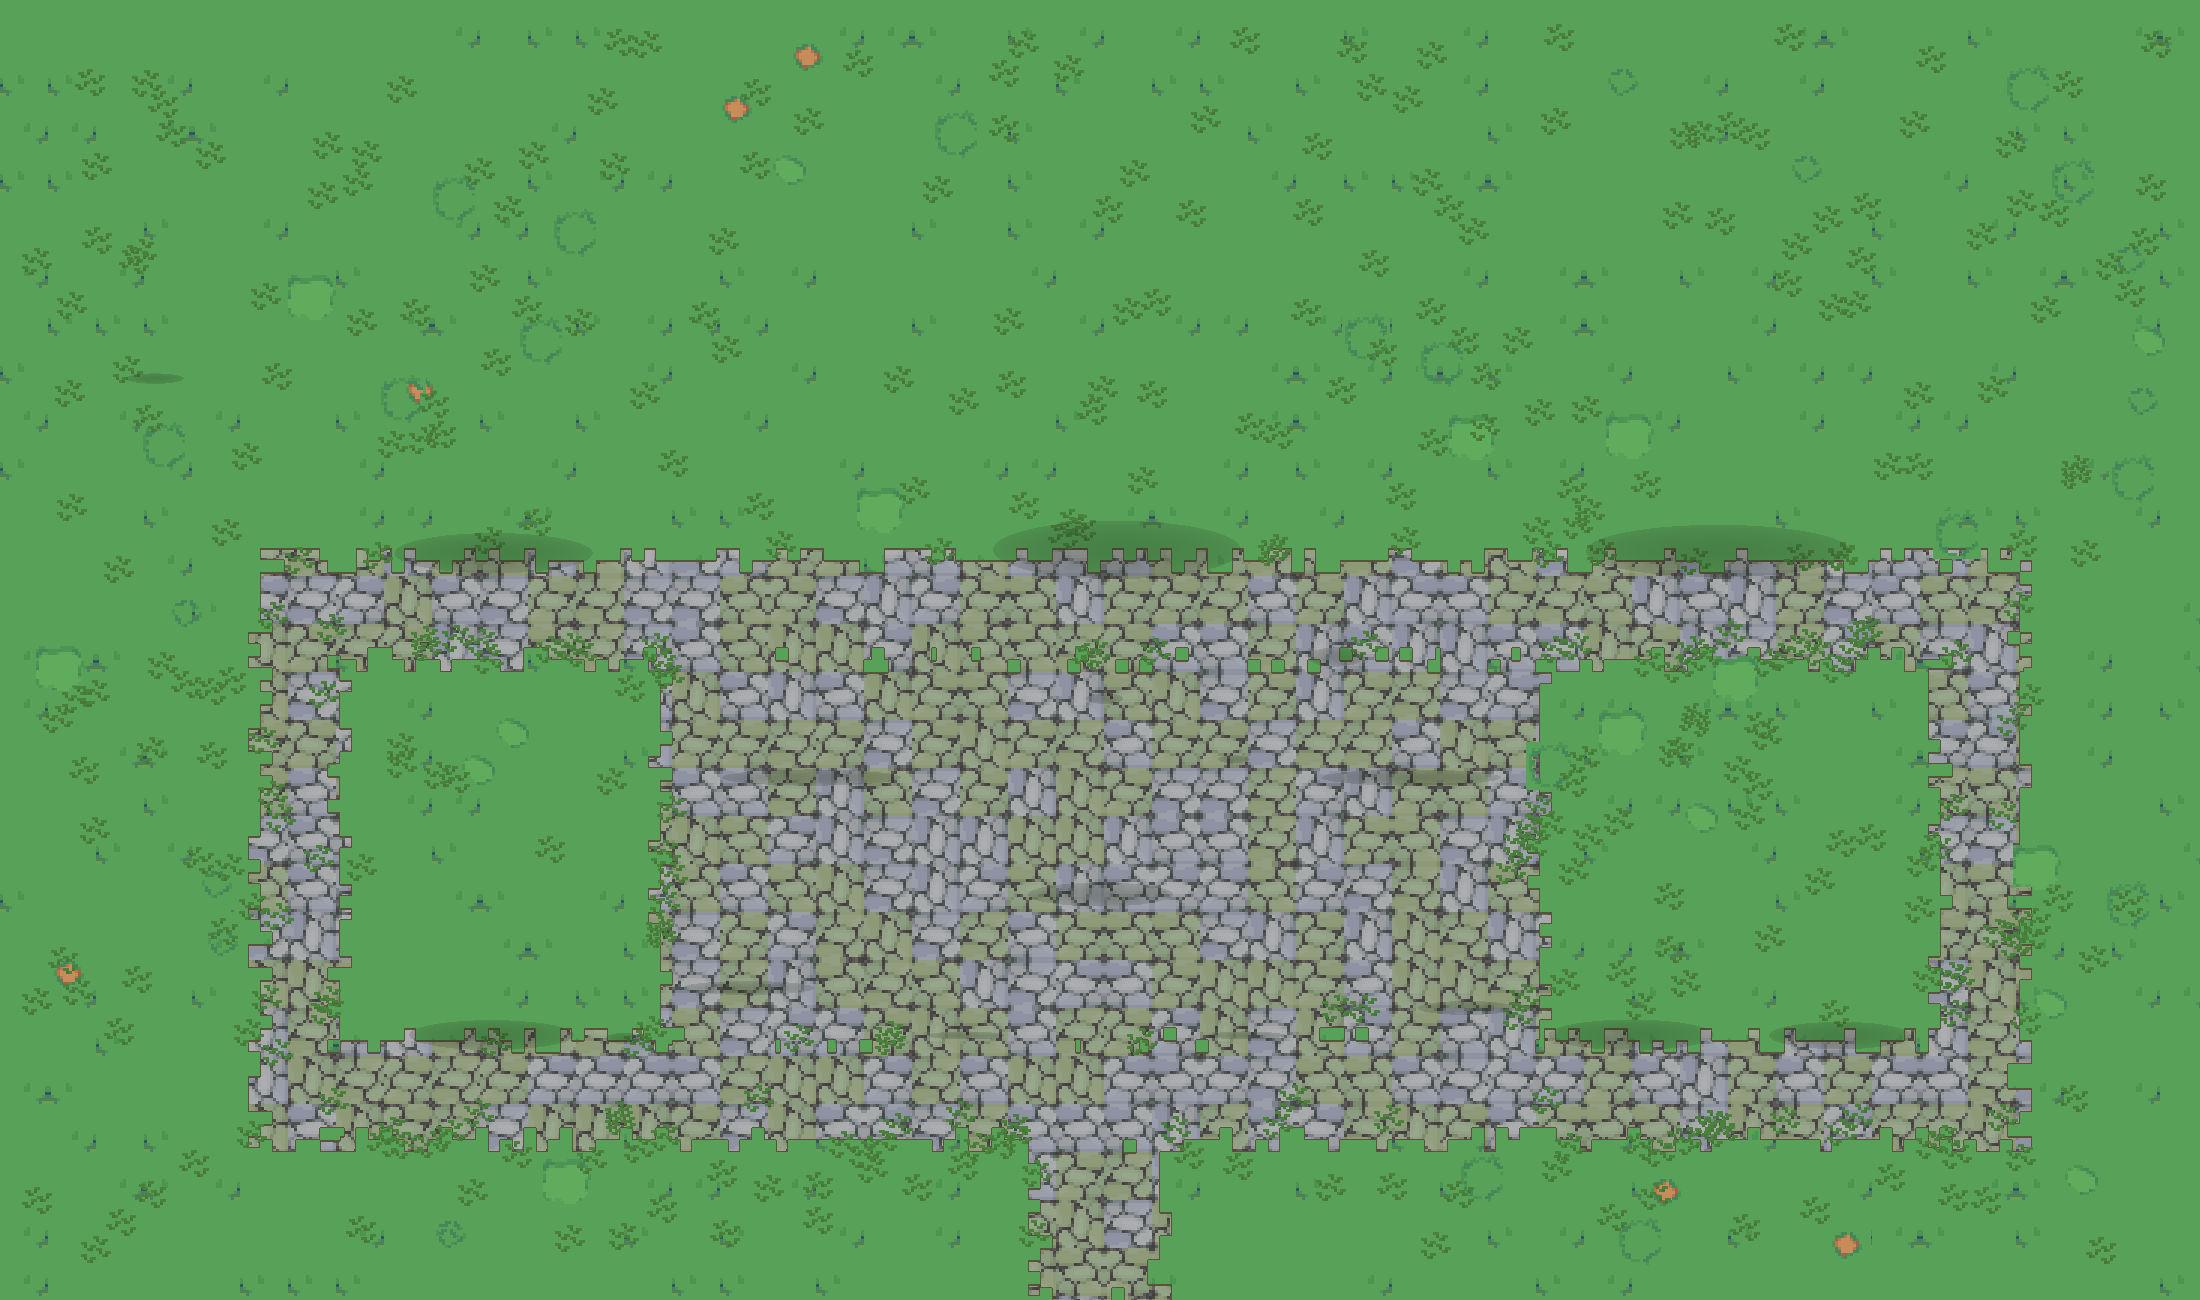
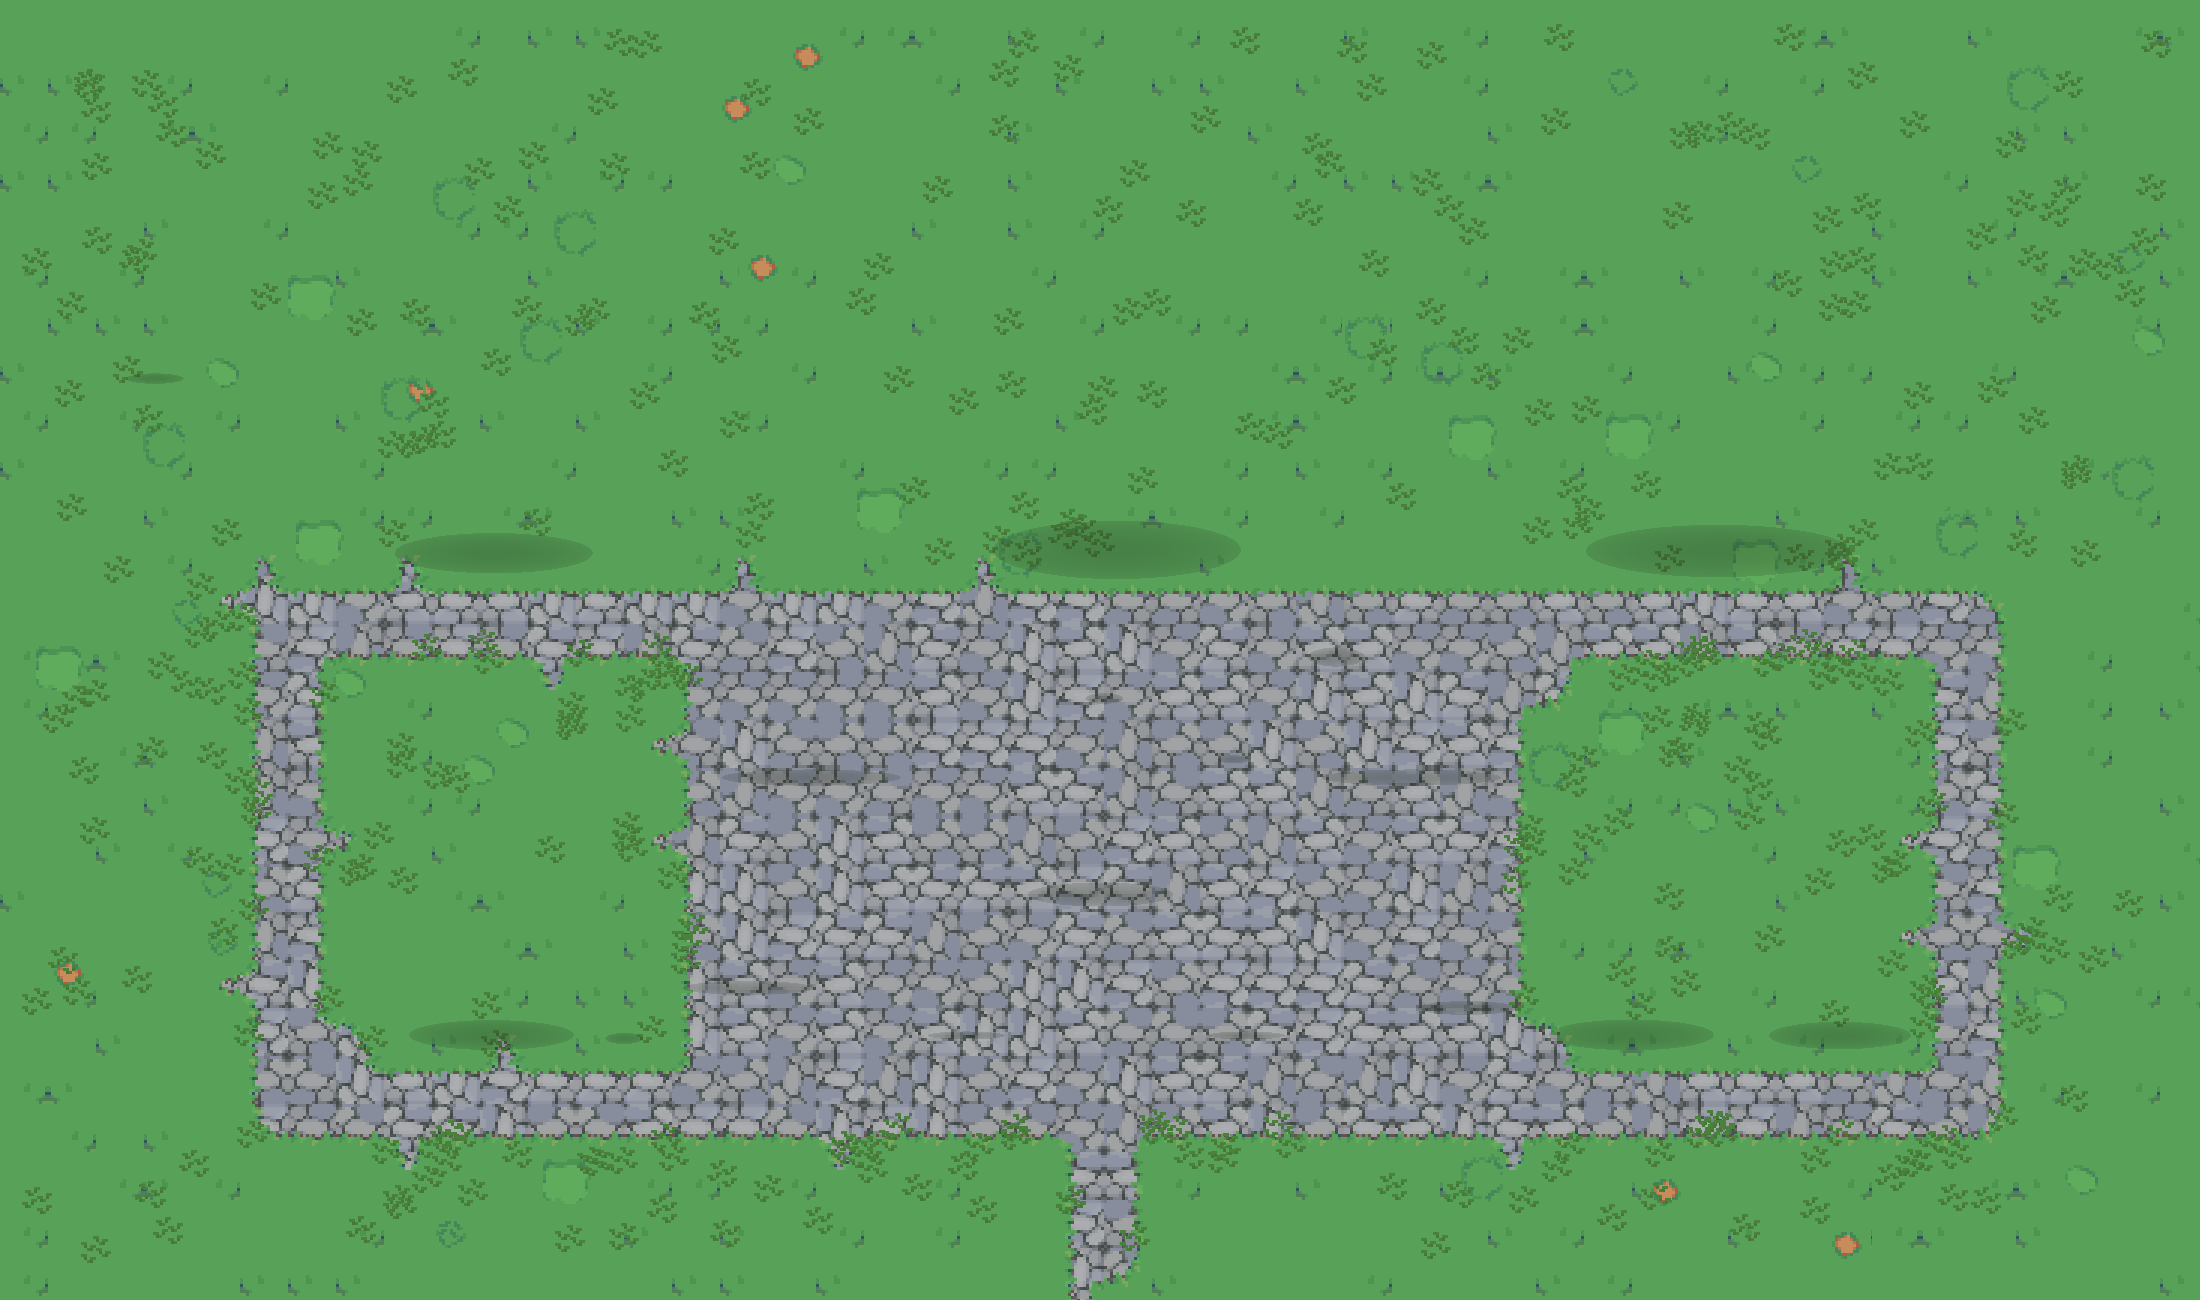
The town's stone meets the grass the way the pack draws it, and the fountain stands still
Three things Trym saw on the square. The cobbles mixed tan with grey: the
tile the generator called grey (Others_3) is the tan one; the paving now draws
from Others_1 and Others_2 only. The fountain walked sideways in a loop: a
six-frame strip stepped by background-position in a box of fractional width
lands every frame on a different sub-pixel phase; the fountain is now six
frame files in one box, shown in turn by a visibility animation, and a walk
proves one frame visible at a time in identical boxes. The stone's edges were
ruler lines with 12 px bites: the paving is now a tile map wearing the pack's
own grass-edge autotile (Godot sheet, family 1) — its 47 pieces indexed by
probing each tile's border pixels, the flat fill cut away so the cobbles show
through, a few one-tile bumps so no edge runs straight for a block.

Design library 6 gets both rules: strips as frame files, ground meets ground
through autotiles.

diff --git a/src/scripts/banana-town.js b/src/scripts/banana-town.js
@@ -29,17 +29,21 @@ for (const [fn, x, y, w, h, base] of OVERLAYS) {
   BOXES.push([x, y, x + w, y + h, base]);
 }
 
-// ---- ⛲ the fountain: the pack's six-frame strip, CSS-stepped like the park's
+// ---- ⛲ the fountain: the pack's six frames, one file each, CSS-shown in turn
 if (FOUNTAIN && FOUNTAIN.length) {
   const [fx, fbase, fw, fh, n] = FOUNTAIN;
   const f = document.createElement('div');
   f.className = 'tw-fountain';
   f.style.left = pct(fx - fw / 2, W); f.style.top = pct(fbase - fh, H); f.style.width = pct(fw, W);
   f.style.aspectRatio = fw + ' / ' + fh;
-  f.style.backgroundImage = 'url(/assets/town/a-fountain.png)';
-  f.style.backgroundSize = (n * 100) + '% 100%';
-  f.style.setProperty('--tw-frames', String(n));
-  f.style.setProperty('--tw-end', (n / (n - 1) * 100) + '%');
+  // six frames in ONE box, one visible at a time (the keyframes in town.astro, offset per
+  // frame): a background strip stepped by position walked sideways at fractional widths
+  for (let i = 0; i < n; i++) {
+    const im = document.createElement('img');
+    im.src = '/assets/town/a-fountain-' + i + '.png'; im.alt = ''; im.decoding = 'async';
+    im.style.animationDelay = (i * (0.9 / n)).toFixed(3) + 's';   // positive: frame i takes the i-th sixth, in drawn order
+    f.appendChild(im);
+  }
   f.style.zIndex = String(100 + fbase);
   world.appendChild(f);
   BOXES.push([fx - fw / 2, fbase - fh, fx + fw / 2, fbase, fbase]);

diff --git a/tools/build-town-scene.py b/tools/build-town-scene.py
@@ -20,7 +20,7 @@ flooring to walk around, NPCs placed with purpose, transitions to grass").
 Outputs:
   public/assets/town/town.png        2200x1300 world plate (ground + shadows)
   public/assets/town/ov-*.png        y-sorted overlay props (everything that stands)
-  public/assets/town/a-fountain.png  the fountain, an animated strip
+  public/assets/town/a-fountain-N.png  the fountain, one file per frame
   src/scripts/town-geo.js            ⚠ THE CONTRACT with the town engine
 Run: python tools/build-town-scene.py
 """
@@ -125,60 +125,108 @@ for i in (1, 2, 3, 8, 9):
     except Exception:
         pass
 
-# ---- the paving mask: the streets' union with an organic, cobble-bitten edge ------
+# ---- the paving: a TILE MAP wearing the pack's own grass-edge autotile (Trym, 11 Sep) ---
+# Family 1 of the Godot autotile sheet (rows 1-4) is the pack's dirt path with ORGANIC
+# grass lips on every edge and corner, in the SAME green as the world's grass tiles
+# (family 4, the graveyard's dull green, showed as a band). Its flat fill is cut away so
+# the grey cobbles show through: cobbles, with the pack's own art where stone meets grass.
+# The hand-drawn 12px bites and the ruler rim are gone with it — a laid square meets
+# the lawn the way the pack draws it, never as a straight line.
+TC, TR = W // T + 1, H // T + 1
+paved_t = [[False] * TC for _ in range(TR)]
+for (x0, y0, x1, y1) in STREETS:
+    for r in range(TR):
+        for c in range(TC):
+            if x0 <= c * T + T // 2 < x1 and y0 <= r * T + T // 2 < y1:
+                paved_t[r][c] = True
+
+
+def pav(r, c):
+    return 0 <= r < TR and 0 <= c < TC and paved_t[r][c]
+
+
+# a few one-tile bumps along the long edges (never two side by side, never a bite —
+# a bite narrows a two-tile street), so no edge runs dead straight for a whole block
+erng = random.Random(31)
+bumps = []
+for r in range(TR):
+    for c in range(TC):
+        if not pav(r, c):
+            continue
+        for (dr, dc) in ((-1, 0), (1, 0), (0, -1), (0, 1)):
+            rr, cc = r + dr, c + dc
+            if pav(rr, cc) or not (0 <= rr < TR and 0 <= cc < TC):
+                continue
+            if erng.random() < 0.14 and not any(abs(br - rr) + abs(bc - cc) == 1 for br, bc in bumps):
+                bumps.append((rr, cc))
+for br, bc in bumps:
+    paved_t[br][bc] = True
+
+FAM = Image.open(os.path.join(PACK, 'Autotiles_48x48', 'Godot_Autotiles_48x48.png')).convert('RGBA').crop((0, 0, 12 * T, 4 * T))
+
+
+def _grass(p):
+    return p[3] >= 128 and p[1] > p[0] + 8 and p[1] > p[2] + 8
+
+
+def _stone(p):
+    return p[3] >= 128 and not _grass(p) and (0.3 * p[0] + 0.59 * p[1] + 0.11 * p[2]) >= 95
+
+
+# every family tile is indexed by what its border pixels say (stone or grass at the four
+# edge midpoints and four corners) — 47 tiles, 47 distinct signatures, no layout table
+PROBES = (('N', 24, 0), ('S', 24, 47), ('W', 0, 24), ('E', 47, 24), ('NW', 0, 0), ('NE', 47, 0), ('SW', 0, 47), ('SE', 47, 47))
+FAMO = {}
+for fr in range(4):
+    for fc in range(12):
+        ft = FAM.crop((fc * T, fr * T, (fc + 1) * T, (fr + 1) * T))
+        if ft.getbbox() is None:
+            continue
+        fp = ft.load()
+        sig = tuple(k for k, x, y in PROBES if _stone(fp[x, y]))
+        # cut the flat fill away: the grass lips and their dark outline stay, cobbles show through
+        for y in range(T):
+            for x in range(T):
+                if _stone(fp[x, y]):
+                    fp[x, y] = (0, 0, 0, 0)
+        FAMO[sig] = ft
+assert len(FAMO) == 47, len(FAMO)
+
+# grey cobbles only: Others_1 and Others_2 (Others_3 is the TAN one — Trym, 11 Sep)
+COBS = [load_pack('ME_Singles_Terrains_and_Fences_48x48_Others_%d.png' % i).convert('RGBA') for i in (1, 2)]
+crng = random.Random(5)
 mask = Image.new('L', (W, H), 0)
 md = ImageDraw.Draw(mask)
-for (x0, y0, x1, y1) in STREETS:
-    md.rectangle([x0, y0, x1 - 1, y1 - 1], fill=255)
-# bites and bumps along every edge, in 12px blocks, so the stone meets the grass
-# the way a laid square does, never as a ruler line
-erng = random.Random(31)
-B = 12
-for (x0, y0, x1, y1) in STREETS:
-    for x in range(x0, x1, B):
-        for (ey, out) in ((y0, -1), (y1, +1)):
-            r = erng.random()
-            if r < 0.28:      # a bump outward
-                md.rectangle([x, ey + (out * B if out < 0 else 0), x + B - 1, ey + (0 if out < 0 else out * B) - 1], fill=255)
-            elif r < 0.42:    # a bite inward
-                md.rectangle([x, ey + (0 if out < 0 else -B), x + B - 1, ey + (B if out < 0 else 0) - 1], fill=0)
-    for y in range(y0, y1, B):
-        for (ex, out) in ((x0, -1), (x1, +1)):
-            r = erng.random()
-            if r < 0.28:
-                md.rectangle([ex + (out * B if out < 0 else 0), y, ex + (0 if out < 0 else out * B) - 1, y + B - 1], fill=255)
-            elif r < 0.42:
-                md.rectangle([ex + (0 if out < 0 else -B), y, ex + (B if out < 0 else 0) - 1, y + B - 1], fill=0)
-# the square and the streets are one surface: refill their true rectangles so a
-# bite never cuts a street in two where two rectangles meet
-for (x0, y0, x1, y1) in STREETS:
-    md.rectangle([x0 + B, y0 + B, x1 - B - 1, y1 - B - 1], fill=255)
+for r in range(TR):
+    for c in range(TC):
+        if not pav(r, c):
+            continue
+        t = COBS[crng.randrange(len(COBS))]
+        k = crng.randrange(4)
+        t = t.transpose(Image.ROTATE_90) if k == 1 else t.transpose(Image.ROTATE_180) if k == 2 else t.transpose(Image.FLIP_LEFT_RIGHT) if k == 3 else t
+        im.alpha_composite(t, (c * T, r * T))
+        md.rectangle([c * T, r * T, c * T + T - 1, r * T + T - 1], fill=255)
+        n_, s_, w_, e_ = pav(r - 1, c), pav(r + 1, c), pav(r, c - 1), pav(r, c + 1)
+        sig = []
+        if n_: sig.append('N')
+        if s_: sig.append('S')
+        if w_: sig.append('W')
+        if e_: sig.append('E')
+        if n_ and w_ and pav(r - 1, c - 1): sig.append('NW')
+        if n_ and e_ and pav(r - 1, c + 1): sig.append('NE')
+        if s_ and w_ and pav(r + 1, c - 1): sig.append('SW')
+        if s_ and e_ and pav(r + 1, c + 1): sig.append('SE')
+        if len(sig) < 8:
+            ov = FAMO.get(tuple(sig))
+            if ov is None:
+                raise SystemExit('no autotile for %r at tile %d,%d' % (sig, r, c))
+            im.alpha_composite(ov, (c * T, r * T))
 mp = mask.load()
+px = im.load()
 
 
 def paved(x, y):
     return 0 <= x < W and 0 <= y < H and mp[x, y] > 0
-
-
-# grey cobbles only (Others_1 + Others_3); the tan ones stay in the drawer
-COBS = [load_pack('ME_Singles_Terrains_and_Fences_48x48_Others_%d.png' % i).convert('RGBA') for i in (1, 3)]
-cob = Image.new('RGBA', (W, H), (0, 0, 0, 0))
-crng = random.Random(5)
-for r in range(0, H // T + 1):
-    for c in range(0, W // T + 1):
-        t = COBS[crng.randrange(len(COBS))]
-        k = crng.randrange(4)
-        t = t.transpose(Image.ROTATE_90) if k == 1 else t.transpose(Image.ROTATE_180) if k == 2 else t.transpose(Image.FLIP_LEFT_RIGHT) if k == 3 else t
-        cob.alpha_composite(t, (c * T, r * T))
-im.paste(cob, (0, 0), mask)
-# the rim: a two-pixel darker seam where stone meets grass, following the bites
-rim = (92, 82, 58, 255)
-for y in range(1, H - 1):
-    row = [mp[x, y] for x in range(W)]
-    for x in range(1, W - 1):
-        if row[x] and (not row[x - 1] or not row[x + 1] or not mp[x, y - 1] or not mp[x, y + 1]):
-            px[x, y] = rim
-            px[x, y + 1] = rim if mp[x, y + 1] else px[x, y + 1]
 
 # the lawn's life, off the stone
 for _ in range(70):
@@ -322,7 +370,11 @@ fw = sheet.width // n
 strip = blockify(sheet, factor=1, colors=28, warm=0.0, sat=1.0, con=1.0, trim=False)
 sw, shh = int(fw * PROP), int(sheet.height * PROP)
 strip = strip.resize((sw * n, shh), Image.NEAREST)
-strip.save(os.path.join(OUT, 'a-fountain.png'), optimize=True)
+# six FRAME FILES, not one strip: a strip stepped by background-position in a box of
+# fractional width lands every frame on a different sub-pixel phase, and the fountain
+# walks sideways in a loop (Trym, 11 Sep). Six images in one box sample identically.
+for i in range(n):
+    strip.crop((i * sw, 0, (i + 1) * sw, shh)).save(os.path.join(OUT, 'a-fountain-%d.png' % i), optimize=True)
 FX, FBASE = 1100, 900
 shadow(FX, FBASE - 6, sw * 0.5, 12)
 FOUNTAIN = [FX, FBASE, sw, shh, n]

diff --git a/docs/design-library.md b/docs/design-library.md
@@ -194,6 +194,24 @@ decoration in it must land on the tile's own period, or it seams.
 Glows on drawn art use `filter: drop-shadow()`, never `box-shadow` — the glow
 has to follow the silhouette, not the rectangle it sits in.
 
+An animated strip stepped by `background-position` walks. In a box whose width
+is a fraction of a pixel (anything sized in % of a scaled world) every step
+lands on a different sub-pixel phase, so the drawing shifts a pixel or two each
+frame and the town's fountain wandered sideways in a loop (Trym, 11 Sep 2026).
+Frames go in one box as separate images, shown in turn by a visibility
+animation with a positive delay per frame; six images sample identically and
+nothing moves. The same applies to any strip in the park or the bay the day it
+is noticed.
+
+Ground meets ground through the pack's autotiles, never through a drawn line.
+The town's first paving was rectangles with 12 px bites and a ruler-straight
+rim, and it read "technical, not organic". The autotile sheet has 47 edge and
+corner pieces per family; index them by probing each tile's border pixels
+(stone or grass at the four edge midpoints and four corners), cut the flat
+fill away, and lay the pieces over the real ground texture. Pick a family whose
+grass is the world's grass palette — a dull family shows as a band along every
+edge.
+
 ## 7. Commit to a silhouette
 
 Four variants of a thing should be four **objects**, not four colours of one
